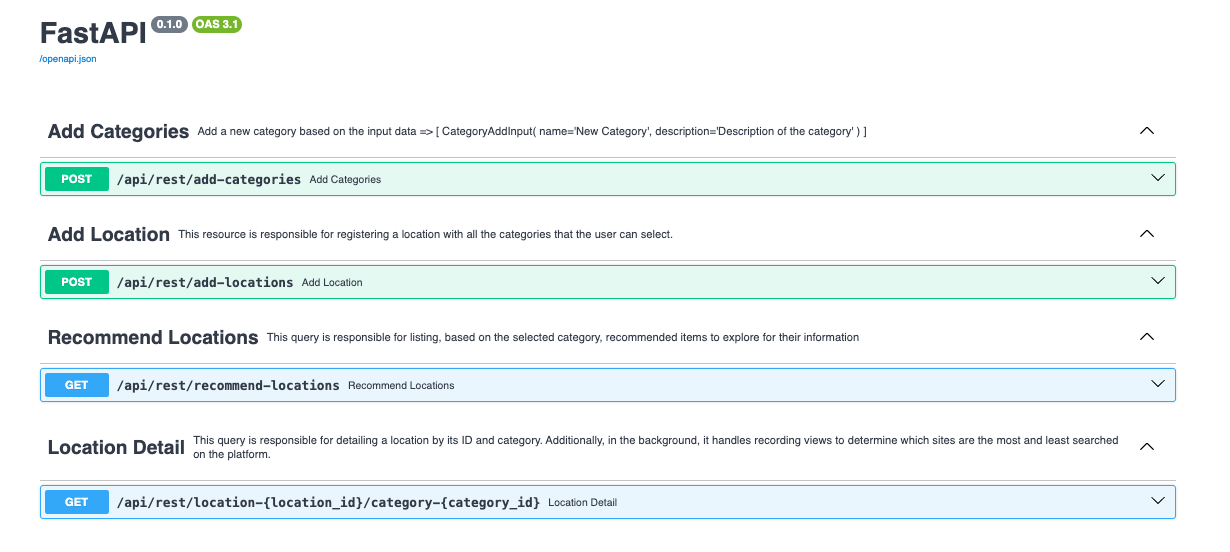
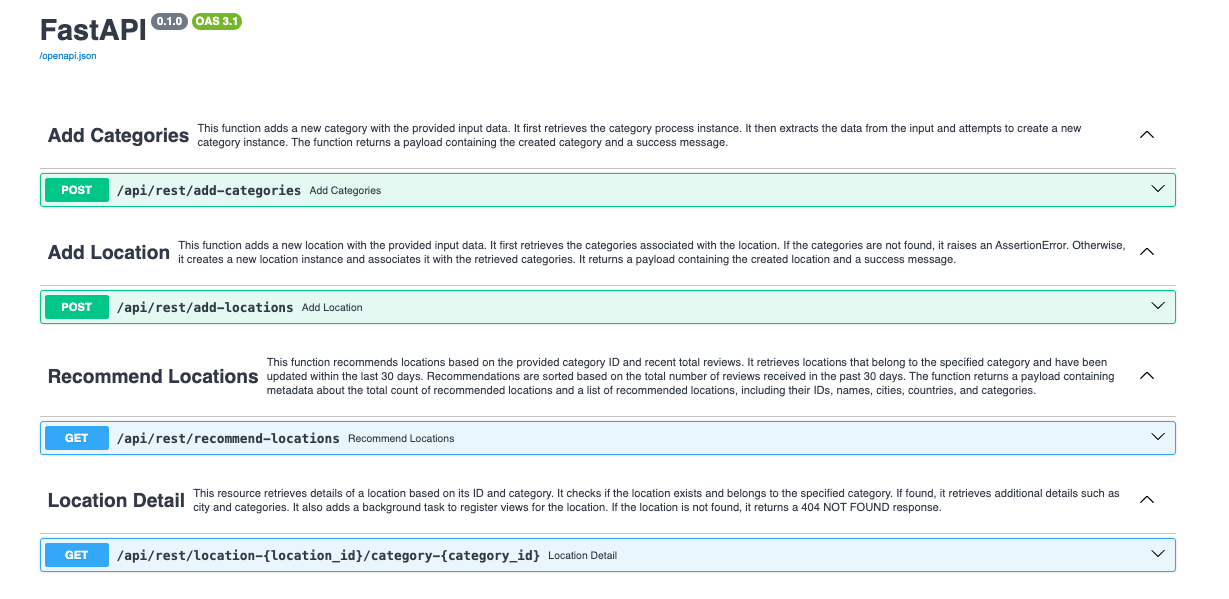
update doc in resources

diff --git a/apps/map_my_world/location_router.py b/apps/map_my_world/location_router.py
@@ -30,8 +30,13 @@ location_router = APIRouter()
 recommend_locations_tag = MetadataTag(
     name="Recommend Locations",
     description=(
-        """This query is responsible for listing, based on the selected
-        category, recommended items to explore for their information
+        """This function recommends locations based on the provided category
+        ID and recent total reviews. It retrieves locations that belong to the
+        specified category and have been updated within the last 30 days.
+        Recommendations are sorted based on the total number of reviews received
+        in the past 30 days. The function returns a payload containing metadata
+        about the total count of recommended locations and a list of recommended
+        locations, including their IDs, names, cities, countries, and categories.
         """
     ),
 )
@@ -67,10 +72,11 @@ async def recommend_locations(category_id: int) -> LocationListPayload:
 location_detail_tag = MetadataTag(
     name="Location Detail",
     description=(
-        """This query is responsible for detailing a location by its ID 
-        and category. Additionally, in the background, it handles recording
-        views to determine which sites are the most and least searched on
-        the platform.
+        """This resource retrieves details of a location based on its ID and category.
+        It checks if the location exists and belongs to the specified category.
+        If found, it retrieves additional details such as city and categories.
+        It also adds a background task to register views for the location.
+        If the location is not found, it returns a 404 NOT FOUND response.
         """
     ),
 )
@@ -117,8 +123,12 @@ async def location_detail(
 add_location_tag = MetadataTag(
     name="Add Location",
     description=(
-        """This resource is responsible for registering a location with
-        all the categories that the user can select.
+        """This function adds a new location with the provided input data.
+        It first retrieves the categories associated with the location.
+        If the categories are not found, it raises an AssertionError.
+        Otherwise, it creates a new location instance and associates it
+        with the retrieved categories.
+        It returns a payload containing the created location and a success message.
         """
     ),
 )

diff --git a/apps/map_my_world/category_router.py b/apps/map_my_world/category_router.py
@@ -19,13 +19,12 @@ logger = logging.getLogger(__name__)
 add_category_tag = MetadataTag(
     name="Add Categories",
     description=(
-        """Add a new category based on the input data =>
-        [
-            CategoryAddInput(
-                name='New Category',
-                description='Description of the category'
-            )
-        ]
+        """This function adds a new category with the provided input data.
+        It first retrieves the category process instance.
+        It then extracts the data from the input and attempts to create
+        a new category instance.
+        The function returns a payload containing the created category
+        and a success message.
         """
     ),
 )

diff --git a/README.md b/README.md
@@ -7,6 +7,13 @@ In order for the project correctly work, please consider you to use::
 - Docker version >= 23.0.5, build bc4487a
 - Docker Compose >= version v2.17.3
 
+## Stack
+
+- FastAPI
+- Django [orm]
+- Pydantic
+- FactoryBoy
+
 # Installation
 
 1. First, clone this repository:
